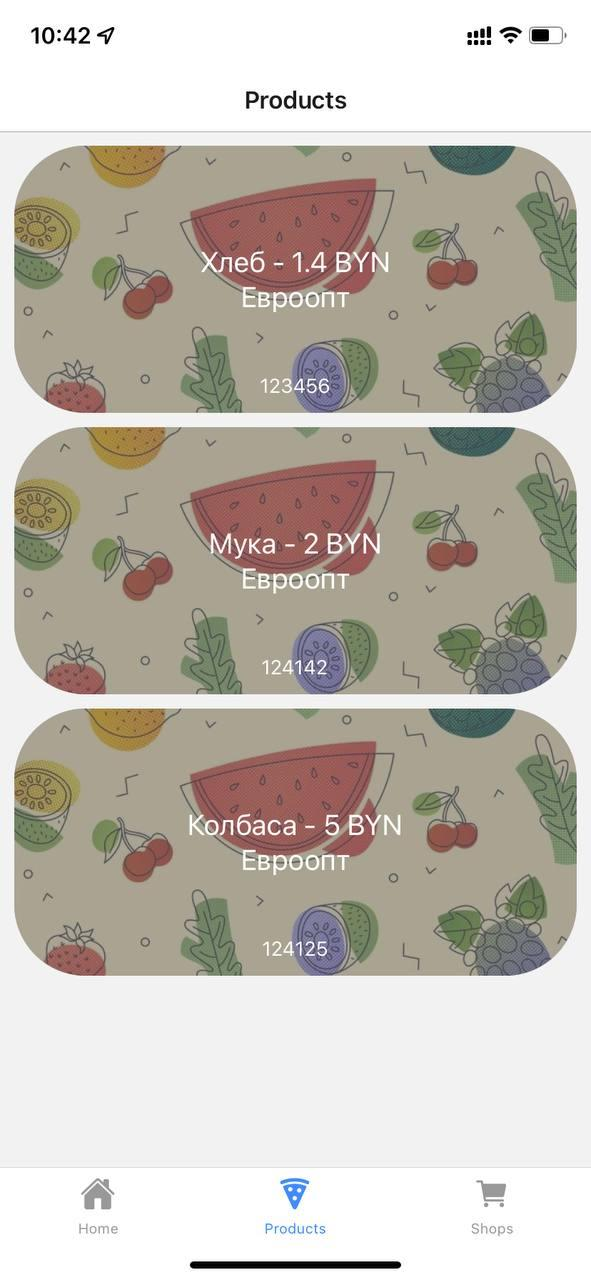
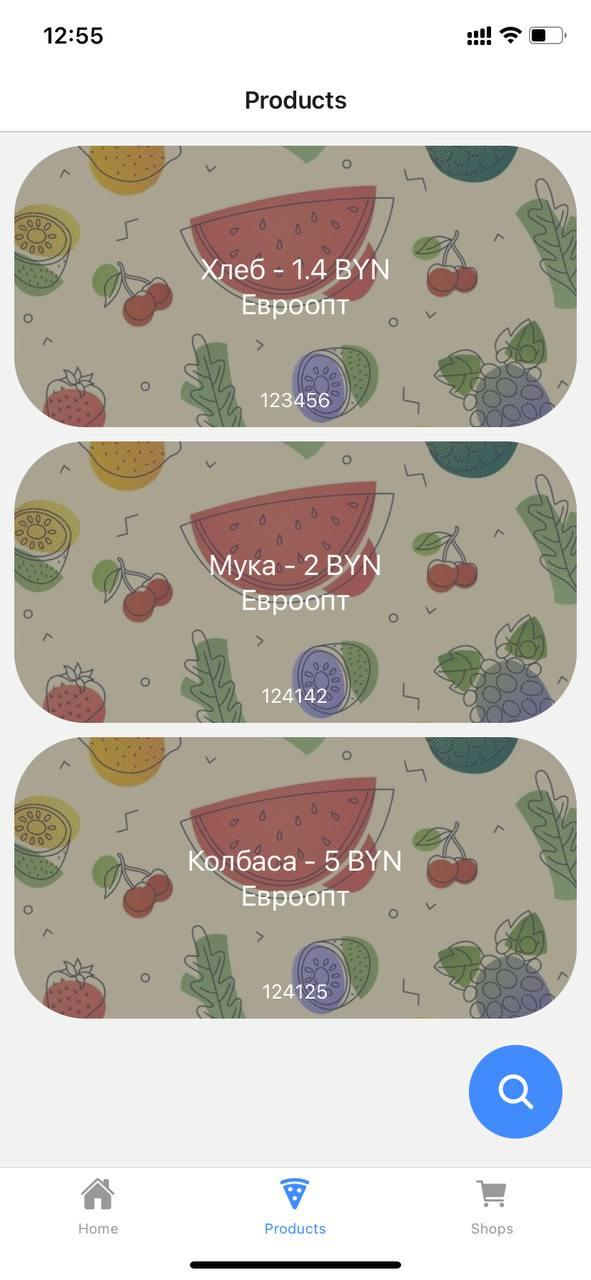
Upraded sreens and screenshots for them

diff --git a/UniSS_mobile_app/app/screens/Shops.js b/UniSS_mobile_app/app/screens/Shops.js
@@ -72,30 +72,30 @@ export default function Shops(props) {
 
     if(loaded){
         return (
-            <ScrollView refreshControl={<RefreshControl onRefresh={onRefresh}/>}>
-                <SafeAreaView style={styles.body}>
-                    <View style={styles.buttonsView}>
-                        <TouchableOpacity onPress={()=>{
-                            props.navigation.navigate('Search');
-                        }} style={styles.buttonView}>
-                            <Ionicons name="search" color={Colors.defaultBackgroundColor} size={40} />
-                        </TouchableOpacity>
+            <View style={styles.body}>
+                <ScrollView refreshControl={<RefreshControl onRefresh={onRefresh}/>}>
+                        <FlatList
+                            contentContainerStyle={styles.list}
+                            data={shops}
+                            renderItem={Shop}
+                            style={{
+                                width: deviceWidth,
+                            }}
+                            conten
+                        />
+                </ScrollView>
+                <View style={styles.buttonsView}>
+                    <TouchableOpacity onPress={()=>{
+                        props.navigation.navigate('Search');
+                    }} style={styles.buttonView}>
+                        <Ionicons name="search" color={Colors.defaultBackgroundColor} size={30} />
+                    </TouchableOpacity>
 
-                        <TouchableOpacity style={styles.buttonView}>
-                            <Ionicons name="navigate" color={Colors.defaultBackgroundColor} size={40} />
-                        </TouchableOpacity>
-                    </View>
-                    <FlatList
-                        contentContainerStyle={styles.list}
-                        data={shops}
-                        renderItem={Shop}
-                        style={{
-                            width: deviceWidth,
-                        }}
-                        conten
-                    />
-                </SafeAreaView>
-            </ScrollView>
+                    <TouchableOpacity style={styles.buttonView}>
+                        <Ionicons name="navigate" color={Colors.defaultBackgroundColor} size={30} />
+                    </TouchableOpacity>
+                </View>
+            </View>
         )
     }
     else{
@@ -126,16 +126,18 @@ const styles = StyleSheet.create({
         fontSize: 20,
     },
     buttonsView: {
-        flexDirection: 'row',
-        paddingRight: 15,
-        paddingLeft: 15,
         justifyContent: 'space-evenly',
         backgroundColor: Colors.appColor,
         alignItems: 'center',
-        height: (deviceWidth - 20) / 4,
-        width: (deviceWidth - 20) / 2,
+        height: (deviceWidth - 20) / 6,
+        width: (deviceWidth - 20) / 3,
         borderRadius: 50,
         marginTop: 10,
+        position: 'absolute',
+        bottom: 20,
+        right: 20,
+        zIndex: 100,
+        flexDirection: "row",
     },
     list: {
         marginTop: 10,

diff --git a/UniSS_mobile_app/app/screens/Products.js b/UniSS_mobile_app/app/screens/Products.js
@@ -72,27 +72,26 @@ export default function Products(props) {
 
     if (loaded) {
         return (
-            <ScrollView refreshControl={<RefreshControl onRefresh={onRefresh}/>}>
-                <SafeAreaView style={styles.body}>
-                    <View style={styles.buttonsView}>
-                        <TouchableOpacity onPress={()=>{
-                            props.navigation.navigate('Search');
-                        }} style={styles.buttonView}>
-                            <Ionicons name="search" color={Colors.defaultBackgroundColor} size={40} />
-                        </TouchableOpacity>
-                    </View>
-
-                    <FlatList
-                        contentContainerStyle={styles.list}
-                        data={products}
-                        renderItem={Product}
-                        style={{
-                            width: deviceWidth,
-                        }}
-                        conten
-                    />
-                </SafeAreaView>
-            </ScrollView>
+            <View style={styles.body}>
+                <ScrollView refreshControl={<RefreshControl onRefresh={onRefresh}/>}>
+                        <FlatList
+                            contentContainerStyle={styles.list}
+                            data={products}
+                            renderItem={Product}
+                            style={{
+                                width: deviceWidth,
+                            }}
+                            conten
+                        />
+                </ScrollView>
+                <View style={styles.buttonsView}>
+                    <TouchableOpacity onPress={()=>{
+                        props.navigation.navigate('Search');
+                    }} style={styles.buttonView}>
+                        <Ionicons name="search" color={Colors.defaultBackgroundColor} size={30} />
+                    </TouchableOpacity>
+                </View>
+            </View>
         )
     } else {
         return <Loading/>;
@@ -106,6 +105,7 @@ const styles = StyleSheet.create({
         justifyContent: 'center',
         alignItems: 'center',
         width: '100%',
+        height: '100%',
     },
     text: {
         color: '#fff',
@@ -130,14 +130,16 @@ const styles = StyleSheet.create({
     },
     buttonsView: {
         flexDirection: 'row',
-        paddingRight: 15,
-        paddingLeft: 15,
         justifyContent: 'space-evenly',
         backgroundColor: Colors.appColor,
         alignItems: 'center',
-        height: (deviceWidth - 20) / 4,
-        width: (deviceWidth - 20) / 4,
+        height: (deviceWidth - 20) / 6,
+        width: (deviceWidth - 20) / 6,
         borderRadius: 50,
         marginTop: 10,
+        position: 'absolute',
+        bottom: 20,
+        zIndex: 100,
+        right: 20,
     },
 })

diff --git a/UniSS_mobile_app/app/screens/ProductsStack.js b/UniSS_mobile_app/app/screens/ProductsStack.js
@@ -1,5 +1,6 @@
 import {createNativeStackNavigator} from "@react-navigation/native-stack";
 import Products from "./Products";
+import Search from "./Search";
 
 const Stack = createNativeStackNavigator();
 
@@ -7,6 +8,7 @@ export default function ProductsStack(props){
     return(
         <Stack.Navigator>
             <Stack.Screen name="Products" initialParams={props.route.params} component={Products}/>
+            <Stack.Screen name="Search" initialParams={{type: 'products'}} component={Search}/>
         </Stack.Navigator>
     )
 }

diff --git a/UniSS_mobile_app/app/config/requests.js b/UniSS_mobile_app/app/config/requests.js
@@ -1,5 +1,5 @@
 const RequestData = {
     app_token: 'i3MmShsaalQKrp16WYIm30Al4f0fYtr4',
-    baseUrl: 'https://812d-185-158-219-252.ngrok.io',
+    baseUrl: 'https://4b07-185-158-219-252.ngrok.io',
 }
 export default RequestData;

diff --git a/README.md b/README.md
@@ -7,9 +7,9 @@
 * # Home
 ![Home](./screenshots/Home.jpg)
 * # ProductsStack
-![ProductsStack](./screenshots/ProductsStack.jpg)
+![ProductsStack](./screenshots/Products.jpg)
 * # ShopsStack
-![ShopsStack](./screenshots/ShopsStack.jpg)
+![ShopsStack](./screenshots/Shops.jpg)
 * # Settings
 ![Settings](./screenshots/Settings.jpg)
 * # Search
